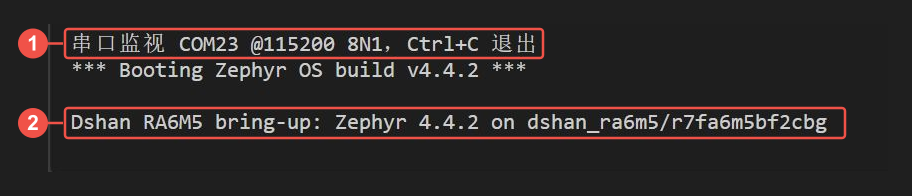
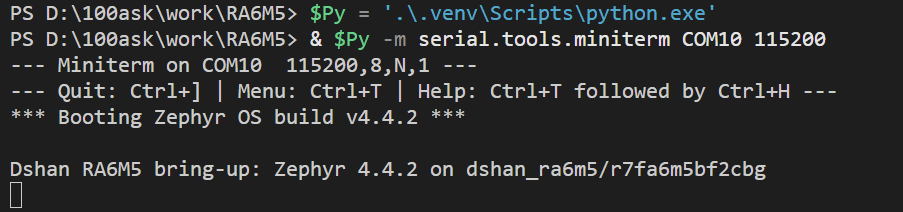
替换串口输出图为 miniterm 实测截图,图注更新,全部待更新截图清零

diff --git a/docs/ra6m5/00-学习准备/03-编译与烧录程序/README.md b/docs/ra6m5/00-学习准备/03-编译与烧录程序/README.md
@@ -140,7 +140,7 @@ $Py = '.\.venv\Scripts\python.exe'
 
 [![串口终端中显示开发板启动信息](./images/vscode-serial-output.png)](./images/vscode-serial-output.png)
 
-*图 6：开发板的实际输出；之前还会显示 Zephyr 的启动信息。（截图待更新：图中为旧版串口任务界面。）*
+*图 6：miniterm 打开串口后的输出：连接提示与 `Quit: Ctrl+]` 说明、Zephyr 启动信息，以及应用打印的 bring-up 行。点击图片可查看原图。*
 
 **这个应用只在启动时打印一次信息，之后循环控制 D12 闪烁。** 因此，看到启动信息后，终端不再增加新内容是正常现象。若没有应用输出，先确认前面已烧录 `board_bringup`，再保持监视打开，按一下 **RES**。
 
